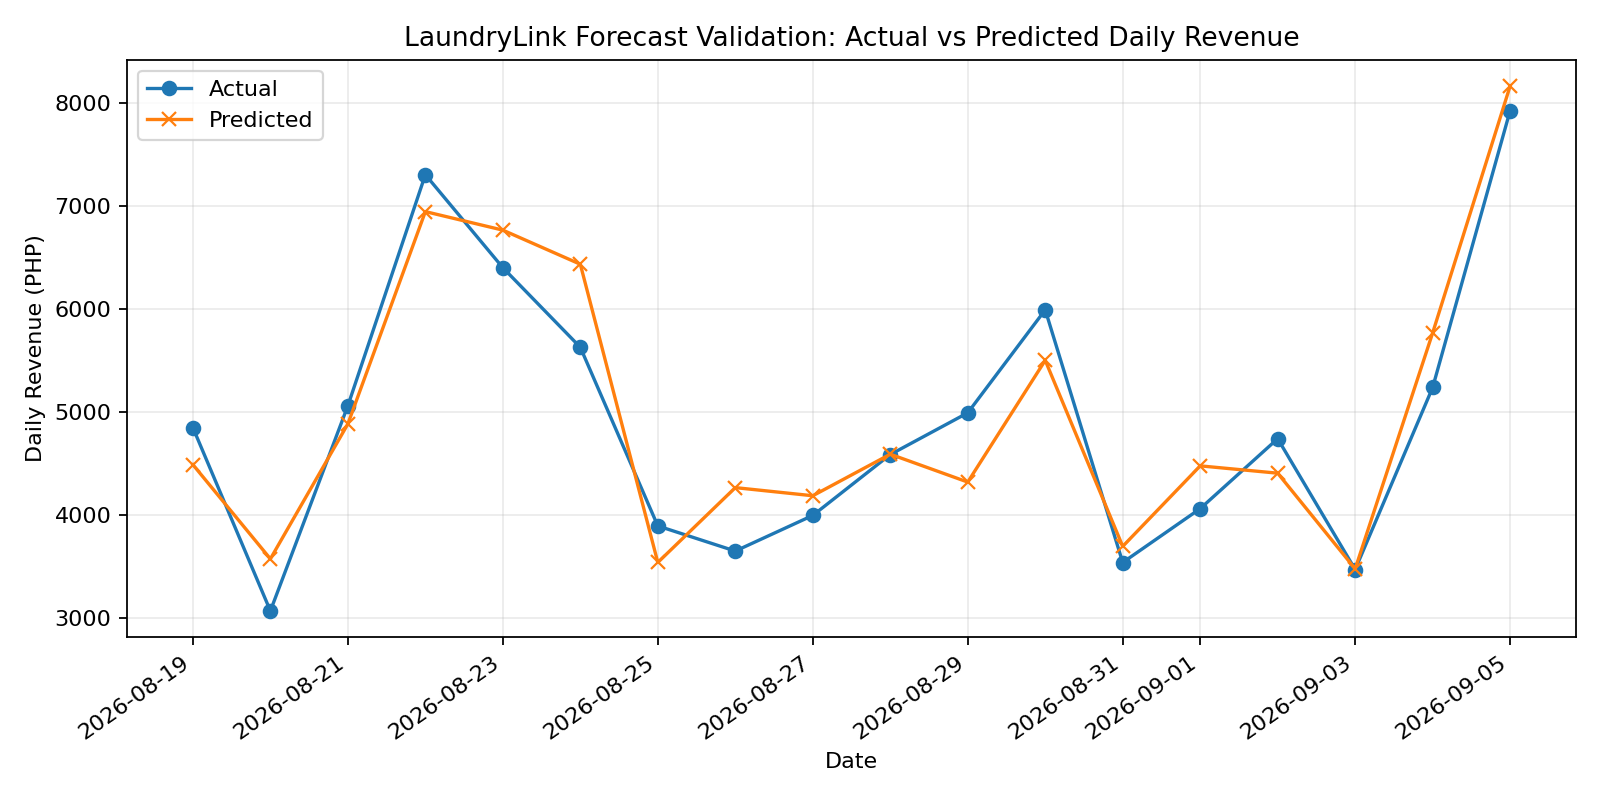
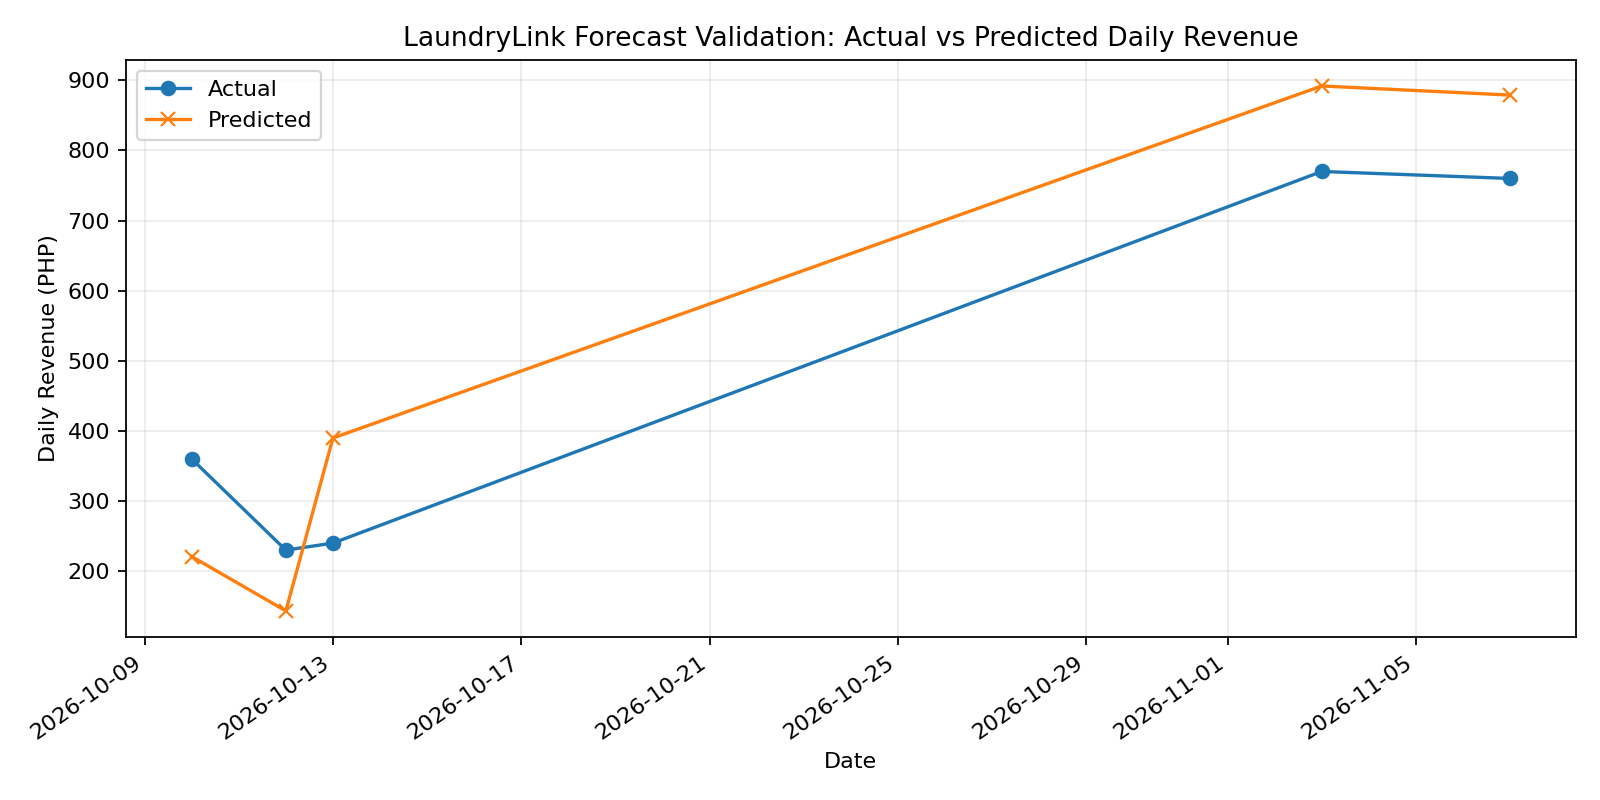
feat: add payment fallback fields and fully booked dates

diff --git a/app/controller/booking_controller.py b/app/controller/booking_controller.py
@@ -5,7 +5,7 @@ from app.schemas import (
     BookingCreate, BookingAssignMachine, CustomerBookingCreate, PaymentStatusUpdate,
     MachineAssignmentInput, MoveLoadToDryerInput, PaymentRejectRequest,
     BookingFinalizePricingRequest, BookingSubmitPaymentProofRequest,
-    RiderAssignmentInput, CustomerBookingUpdate, TEST_REFERENCE_PREFIX,
+    RiderAssignmentInput, CustomerBookingUpdate, DeliveryRequestInput, TEST_REFERENCE_PREFIX,
 )
 from app.services.prediction_service import PredictionService
 from app.services import ocr_service
@@ -2786,4 +2786,177 @@ async def update_customer_booking(
         raise HTTPException(
             status_code=status.HTTP_500_INTERNAL_SERVER_ERROR,
             detail=f"Error updating booking: {str(e)}"
+        )
+
+
+# Mga status kung saan puwede pang gawing delivery ang drop-off
+# booking: nasa shop na ang laundry at tapos na ang pricing. Hindi
+# kasama ang Awaiting Approval/Weighing/Payment (hindi pa pinal ang
+# presyo/bayad) at Claimed/Cancelled/Declined (tapos na).
+SWITCHABLE_TO_DELIVERY_STATUSES = ("Pending", "In Progress", "Ready")
+
+
+async def request_delivery(
+    db: Session,
+    booking_id: int,
+    customer: models.Customer,
+    data: DeliveryRequestInput,
+):
+    """
+    NEW (Switch to Delivery) — ginagawang "delivery" ng CUSTOMER ang
+    sarili niyang drop-off booking pagkatapos nitong ma-accept at ma-price.
+
+    Mga patakaran:
+      - Drop-off lang; one-way (walang balik sa drop-off).
+      - Status: Pending / In Progress / Ready lang.
+      - Kailangang may delivery ang shop (has_delivery).
+      - Hindi puwede habang pending_verification ang bayad (nasa
+        review pa ang halagang binayaran).
+      - Idinaragdag ang shop.delivery_fee sa total_price/final_price
+        kung HINDI pa bayad. Kung bayad na, hindi gagalawin ang
+        total — ang fee ay sisingilin nang hiwalay (cash sa rider).
+      - cash -> cod kung hindi pa bayad.
+      - Walang pickup_datetime: nasa shop na ang laundry.
+      - Chine-check ang Fully Booked dates kung may delivery_datetime.
+    """
+    booking = (
+        db.query(Booking)
+        .filter(Booking.id == booking_id, Booking.customer_id == customer.id)
+        .with_for_update()
+        .first()
+    )
+    if not booking:
+        raise HTTPException(
+            status_code=status.HTTP_404_NOT_FOUND,
+            detail="Booking not found."
+        )
+
+    if booking.fulfillment_mode == "delivery":
+        raise HTTPException(
+            status_code=status.HTTP_400_BAD_REQUEST,
+            detail="This booking is already set for delivery."
+        )
+
+    if booking.status not in SWITCHABLE_TO_DELIVERY_STATUSES:
+        raise HTTPException(
+            status_code=status.HTTP_400_BAD_REQUEST,
+            detail=(
+                f"Delivery can't be requested for a booking with status "
+                f"'{booking.status}'. It can be changed while the laundry is "
+                "Pending, In Progress, or Ready. Please contact the shop."
+            )
+        )
+
+    if booking.payment_status == "pending_verification":
+        raise HTTPException(
+            status_code=status.HTTP_400_BAD_REQUEST,
+            detail="Your payment is still being verified. Please try again once the shop confirms it."
+        )
+
+    shop = db.query(models.Shop).filter(models.Shop.id == booking.shop_id).first()
+    if not shop or not shop.has_delivery:
+        raise HTTPException(
+            status_code=status.HTTP_400_BAD_REQUEST,
+            detail="This shop does not offer delivery."
+        )
+
+    address = (
+        db.query(Address)
+        .filter(Address.id == data.address_id, Address.customer_id == customer.id)
+        .first()
+    )
+    if not address:
+        raise HTTPException(
+            status_code=status.HTTP_400_BAD_REQUEST,
+            detail="Selected delivery address was not found in your saved addresses."
+        )
+
+    if data.delivery_datetime is not None:
+        assert_date_not_blocked(db, booking.shop_id, data.delivery_datetime)
+
+    delivery_fee = round(shop.delivery_fee or 0.0, 2)
+    is_paid = booking.payment_status == "paid"
+
+    booking.fulfillment_mode = "delivery"
+    booking.delivery_address_id = address.id
+    booking.delivery_address_line = address.address_line
+    booking.delivery_latitude = address.latitude
+    booking.delivery_longitude = address.longitude
+    booking.delivery_datetime = data.delivery_datetime
+    booking.delivery_fee_charged = delivery_fee
+
+    fee_note = ""
+    if delivery_fee > 0:
+        if is_paid:
+            fee_note = f" Delivery fee of ₱{delivery_fee:,.2f} will be collected by the rider."
+        else:
+            booking.total_price = round((booking.total_price or 0.0) + delivery_fee, 2)
+            if booking.final_price is not None:
+                booking.final_price = round(booking.final_price + delivery_fee, 2)
+
+    if not is_paid and booking.payment_method == "cash":
+        booking.payment_method = "cod"
+
+    try:
+        log_activity(
+            db, booking.shop_id,
+            actor_name=customer.full_name,
+            actor_role="customer",
+            description=(
+                f"Customer switched booking #{booking.id} ({booking.service_type}) "
+                f"from drop-off to delivery - {address.address_line}"
+            )
+        )
+
+        notification_controller.create_notification(
+            db,
+            customer_id=customer.id,
+            notif_type="booking_switched_to_delivery",
+            title="Delivery Requested",
+            message=(
+                f"Your {booking.service_type} order at {booking.shop_name or 'the shop'} "
+                f"will be delivered to {address.address_line}.{fee_note}"
+            ),
+            booking_id=booking.id
+        )
+
+        db.commit()
+        db.refresh(booking)
+
+        reloaded = (
+            db.query(Booking)
+            .options(
+                joinedload(Booking.washer),
+                joinedload(Booking.dryer),
+                joinedload(Booking.inventory_usages),
+                joinedload(Booking.add_ons_used),
+                joinedload(Booking.machine_assignments),
+            )
+            .filter(Booking.id == booking_id)
+            .first()
+        )
+
+        # Live push sa shop dashboard — kailangang mag-assign ng rider.
+        await manager.broadcast(booking.shop_id, {
+            "type": "booking_switched_to_delivery",
+            "booking_id": reloaded.id,
+            "customer_name": reloaded.customer_name,
+            "service_type": reloaded.service_type,
+            "status": reloaded.status,
+            "delivery_address_line": reloaded.delivery_address_line,
+        })
+
+        await customer_manager.send_to_customer(customer.id, {
+            "type": EVENT_BOOKING_UPDATED,
+            "booking_id": reloaded.id,
+            "status": reloaded.status,
+            "fulfillment_mode": reloaded.fulfillment_mode,
+        })
+
+        return reloaded
+    except Exception as e:
+        db.rollback()
+        raise HTTPException(
+            status_code=status.HTTP_500_INTERNAL_SERVER_ERROR,
+            detail=f"Error requesting delivery: {str(e)}"
         )

diff --git a/app/routes/booking_routes.py b/app/routes/booking_routes.py
@@ -8,7 +8,7 @@ from app.schemas import (
     PaymentStatusUpdate, MachineAssignmentInput, MoveLoadToDryerInput,
     PaymentRejectRequest, BookingFinalizePricingRequest, BookingSubmitPaymentProofRequest,
     RiderAssignmentInput, PromoPreviewRequest, PromoPreviewResponse,
-    PaymentAuditLogResponse,
+    PaymentAuditLogResponse, DeliveryRequestInput,
 )
 from app.controller import booking_controller
 from app import models
@@ -444,6 +444,29 @@ async def update_my_booking(
     """
     return await booking_controller.update_customer_booking(
         db, booking_id, current_customer, update_data
+    )
+
+
+@router.post("/customer/{booking_id}/request-delivery", response_model=BookingResponse)
+async def request_delivery(
+    booking_id: int,
+    delivery_data: DeliveryRequestInput,
+    current_customer: models.Customer = Depends(get_current_customer),
+    db: Session = Depends(get_db)
+):
+    """
+    NEW (Switch to Delivery) — customer gawing "delivery" ang sarili
+    niyang drop-off booking habang Pending / In Progress / Ready pa
+    (hal. tapos na ang laba, gusto nang ipahatid). One-way. Idinaragdag
+    ang delivery fee ng shop, sine-save ang address snapshot, at
+    nagpapadala ng live 'booking_switched_to_delivery' event sa shop
+    para makapag-assign sila ng rider.
+
+    NOTE: POST ito kaya hindi ito natatamaan ng generic PATCH
+    '/{booking_id}' sa ibaba.
+    """
+    return await booking_controller.request_delivery(
+        db, booking_id, current_customer, delivery_data
     )
 
 

diff --git a/app/schemas.py b/app/schemas.py
@@ -1451,6 +1451,31 @@ class CustomerBookingUpdate(BaseModel):
         return v
 
 
+class DeliveryRequestInput(BaseModel):
+    """
+    NEW (Switch to Delivery) — ipinapadala ng customer para gawing
+    "delivery" ang isang drop-off booking na nasa shop na ang laundry
+    (hal. tapos na ang laba at gusto na lang nilang ipahatid).
+
+    - address_id: REQUIRED, isa sa mga saved Address ng customer.
+    - delivery_datetime: OPTIONAL na preferred na petsa/oras ng
+      hatid. Chine-check laban sa Fully Booked dates ng shop.
+    - delivery_window: tinatanggap pero hindi pa naka-save (walang
+      column pa); nakasama na para hindi na magbago ang API kapag
+      nagdagdag ng column.
+    """
+    address_id: int
+    delivery_datetime: Optional[datetime] = None
+    delivery_window: Optional[str] = None
+
+    @field_validator("delivery_window")
+    @classmethod
+    def validate_delivery_window(cls, v):
+        if v is not None and v not in ALLOWED_TIME_WINDOWS:
+            raise ValueError(f"time window must be one of: {', '.join(sorted(ALLOWED_TIME_WINDOWS))}")
+        return v
+
+
 class BookingDecisionResponse(BaseModel):
     """Simple response para sa accept/decline endpoints."""
     message: str
